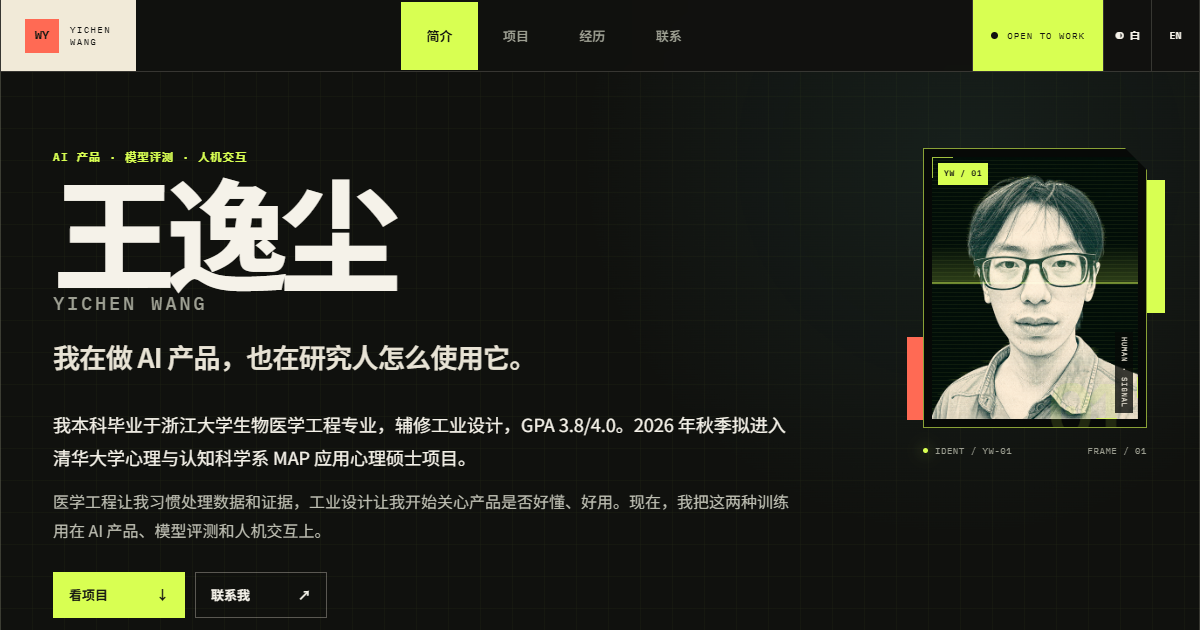
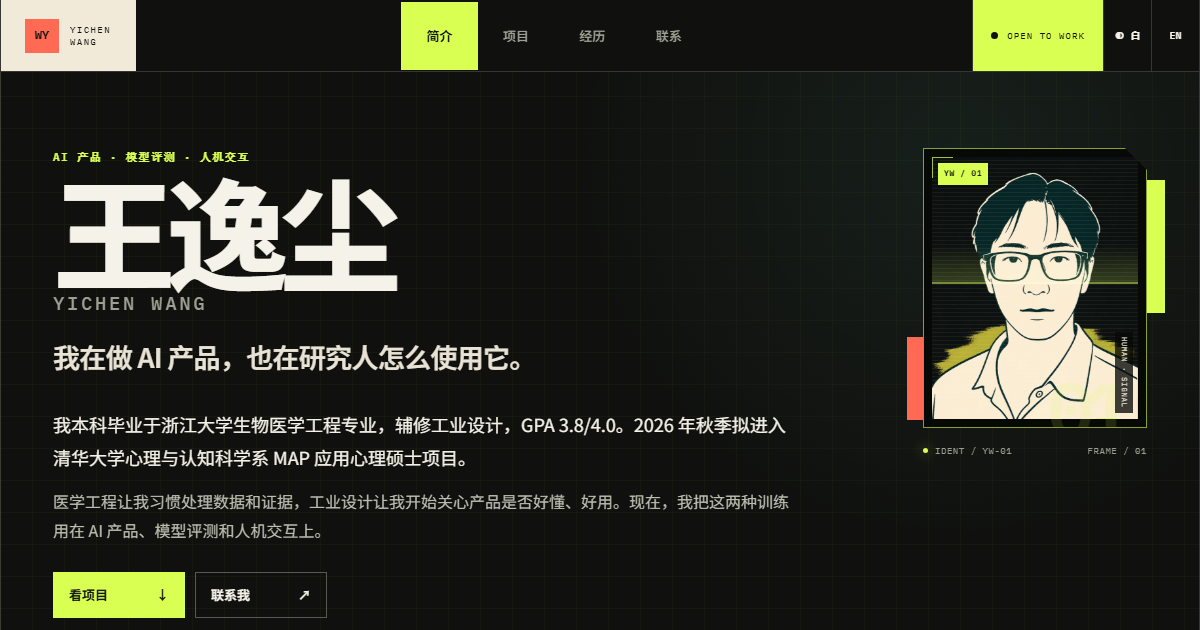
refine profile portrait and contact radar

Changed region(s): [[0.7708, 0.2714, 0.9558, 0.6635], [0.0617, 0.2413, 0.2158, 0.2714]]

diff --git a/index.html b/index.html
@@ -92,7 +92,7 @@
 
         <figure class="portrait-card reveal">
           <div class="portrait-stage">
-            <img class="portrait-image" src="./assets/profile-dotmatrix.png" width="600" height="600" alt="王逸尘的点阵头像" data-i18n-alt="profile.alt">
+            <img class="portrait-image" src="./assets/profile-illustrated.webp" width="800" height="800" alt="王逸尘的简笔插画头像" data-i18n-alt="profile.alt">
             <div class="portrait-raster" aria-hidden="true"></div>
             <div class="portrait-scanner" aria-hidden="true"></div>
             <span class="portrait-tag mono" aria-hidden="true">YW / 01</span>
@@ -143,7 +143,7 @@
           </article>
         </div>
 
-        <p class="availability reveal"><span data-i18n="availability.label">求职状态</span> <b data-i18n="availability.detail">2026.08.11 起 · 每周 5 天 · 可实习 6 个月以上 · 上海 / 北京 / 深圳 / 杭州</b></p>
+        <p class="availability reveal"><span data-i18n="availability.label">求职状态</span> <b data-i18n="availability.detail">2026.08.11 起 · 每周 5 天 · 可实习 6 个月以上 · 北京优先 / 杭州可考虑</b></p>
       </section>
 
       <section id="work" class="work section-frame" aria-labelledby="work-title">
@@ -274,7 +274,7 @@
         <header class="section-intro reveal">
           <p class="section-number mono">02 / EXPERIENCE</p>
           <h2 id="experience-title" data-i18n="experience.title">教育与经历</h2>
-          <p class="experience-lead" data-i18n="experience.lead">我的路径横跨医学工程、工业设计和 AI 产品。这里先列教育背景，再列几段真正影响我工作方法的实践。</p>
+          <p class="experience-lead" data-i18n="experience.lead">关键词：医学数据与证据、用户研究与交互设计、AI 产品与模型评测。技术栈：Python、JavaScript、SQL、Flask、SQLite、RAG、自动化测试。</p>
         </header>
 
         <div class="experience-grid">
@@ -326,6 +326,35 @@
       </section>
 
       <section id="contact" class="contact section-frame" aria-labelledby="contact-title">
+        <div class="contact-radar" aria-hidden="true">
+          <svg viewBox="0 0 600 600" focusable="false">
+            <g class="contact-radar-grid">
+              <polygon points="300,40 547,220 453,510 147,510 53,220"></polygon>
+              <polygon points="300,105 485,240 415,458 185,458 115,240"></polygon>
+              <polygon points="300,170 424,260 376,405 224,405 176,260"></polygon>
+              <polygon points="300,235 362,280 338,353 262,353 238,280"></polygon>
+              <path d="M300 300V40M300 300L547 220M300 300L453 510M300 300L147 510M300 300L53 220"></path>
+            </g>
+            <polygon class="contact-radar-profile" points="300,71 535,224 419,464 175,472 122,242"></polygon>
+            <g class="contact-radar-nodes">
+              <circle cx="300" cy="71" r="6"></circle>
+              <circle cx="535" cy="224" r="6"></circle>
+              <circle cx="419" cy="464" r="6"></circle>
+              <circle cx="175" cy="472" r="6"></circle>
+              <circle cx="122" cy="242" r="6"></circle>
+              <circle cx="300" cy="300" r="8"></circle>
+            </g>
+            <line class="contact-radar-sweep" x1="300" y1="300" x2="300" y2="34"></line>
+            <g class="contact-radar-labels">
+              <text x="300" y="20" text-anchor="middle">EVIDENCE</text>
+              <text x="558" y="216">PRODUCT</text>
+              <text x="460" y="544">DESIGN</text>
+              <text x="140" y="544" text-anchor="end">SYSTEMS</text>
+              <text x="42" y="216" text-anchor="end">RESEARCH</text>
+            </g>
+          </svg>
+          <span class="contact-radar-caption mono">WORKING PROFILE / 05 AXES</span>
+        </div>
         <div class="contact-copy reveal">
           <p class="section-number mono">03 / CONTACT</p>
           <h2 id="contact-title" data-i18n="contact.title">联系我</h2>

diff --git a/app.js b/app.js
@@ -14,7 +14,7 @@ const translations = {
     "aria.modelRadar": "打开 Model Radar 在线站点",
     "aria.lightloom": "打开 Lightloom 公开项目页",
     "aria.ragFlow": "智能营养师功能流程示意",
-    "profile.alt": "王逸尘的点阵头像",
+    "profile.alt": "王逸尘的简笔插画头像",
     "nav.about": "简介",
     "nav.work": "项目",
     "nav.experience": "经历",
@@ -37,7 +37,7 @@ const translations = {
     "school.zjuEmblemAlt": "浙江大学校徽",
     "school.tsinghuaEmblemAlt": "清华大学校徽",
     "availability.label": "求职状态",
-    "availability.detail": "2026.08.11 起 · 每周 5 天 · 可实习 6 个月以上 · 上海 / 北京 / 深圳 / 杭州",
+    "availability.detail": "2026.08.11 起 · 每周 5 天 · 可实习 6 个月以上 · 北京优先 / 杭州可考虑",
     "work.title": "我做过的几个项目。",
     "project.radarAlt": "Model Radar 首页，展示世界模型雷达、更新时间、指标和模型排名",
     "project.radarCaption": "Model Radar 首页 · 2026",
@@ -86,7 +86,7 @@ const translations = {
     "side.researchTitle": "独立研究者工坊",
     "side.researchDetail": "整理研究过程的本地工作台 ↗",
     "experience.title": "教育与经历",
-    "experience.lead": "我的路径横跨医学工程、工业设计和 AI 产品。这里先列教育背景，再列几段真正影响我工作方法的实践。",
+    "experience.lead": "关键词：医学数据与证据、用户研究与交互设计、AI 产品与模型评测。技术栈：Python、JavaScript、SQL、Flask、SQLite、RAG、自动化测试。",
     "experience.education": "教育 / EDUCATION",
     "experience.practice": "实践 / PRACTICE",
     "experience.zjuDetail": "生物医学工程本科 · 工业设计辅修 · GPA 3.8/4.0",
@@ -121,7 +121,7 @@ const translations = {
     "aria.modelRadar": "Open the Model Radar website",
     "aria.lightloom": "Open the public Lightloom project",
     "aria.ragFlow": "Smart nutrition assistant workflow",
-    "profile.alt": "Dot-matrix portrait of Yichen Wang",
+    "profile.alt": "Minimal line-illustration portrait of Yichen Wang",
     "nav.about": "About",
     "nav.work": "Work",
     "nav.experience": "Experience",
@@ -144,7 +144,7 @@ const translations = {
     "school.zjuEmblemAlt": "Zhejiang University emblem",
     "school.tsinghuaEmblemAlt": "Tsinghua University emblem",
     "availability.label": "Availability",
-    "availability.detail": "From Aug 11, 2026 · 5 days/week · 6+ months · Shanghai / Beijing / Shenzhen / Hangzhou",
+    "availability.detail": "From Aug 11, 2026 · 5 days/week · 6+ months · Beijing preferred / Hangzhou considered",
     "work.title": "A few things I've built.",
     "project.radarAlt": "Model Radar homepage showing model updates, dates, metrics, and rankings",
     "project.radarCaption": "Model Radar homepage · 2026",
@@ -193,7 +193,7 @@ const translations = {
     "side.researchTitle": "Independent Researcher Workshop",
     "side.researchDetail": "A local workspace for research in progress ↗",
     "experience.title": "Education & experience",
-    "experience.lead": "I studied biomedical engineering and industrial design before moving into AI products. These are the experiences that shaped how I work.",
+    "experience.lead": "Focus: medical data and evidence, user research and interaction design, AI products and model evaluation. Stack: Python, JavaScript, SQL, Flask, SQLite, RAG, and automated testing.",
     "experience.education": "EDUCATION",
     "experience.practice": "PRACTICE",
     "experience.zjuDetail": "BEng in Biomedical Engineering · Industrial Design minor · GPA 3.8/4.0",

diff --git a/styles.css b/styles.css
@@ -1405,6 +1405,9 @@ html[lang="en"] .experience .section-intro h2 {
 }
 
 .contact {
+  position: relative;
+  isolation: isolate;
+  overflow: hidden;
   padding-top: 110px;
   padding-bottom: 110px;
   color: var(--signal-ink);
@@ -1416,7 +1419,94 @@ html[lang="en"] .experience .section-intro h2 {
 }
 
 .contact-copy {
+  position: relative;
+  z-index: 2;
   max-width: 800px;
+}
+
+.contact-radar {
+  position: absolute;
+  z-index: 0;
+  top: 50%;
+  right: -8vw;
+  width: clamp(620px, 52vw, 1180px);
+  aspect-ratio: 1;
+  color: var(--signal-ink);
+  opacity: 0.14;
+  pointer-events: none;
+  transform: translateY(-50%) rotate(-4deg);
+}
+
+.contact-radar svg {
+  display: block;
+  width: 100%;
+  height: 100%;
+  overflow: visible;
+}
+
+.contact-radar-grid polygon,
+.contact-radar-grid path {
+  fill: none;
+  stroke: currentColor;
+  stroke-width: 1.2;
+  vector-effect: non-scaling-stroke;
+}
+
+.contact-radar-grid polygon:nth-child(2),
+.contact-radar-grid polygon:nth-child(4) {
+  stroke-dasharray: 5 8;
+}
+
+.contact-radar-profile {
+  fill: rgba(32, 168, 255, 0.2);
+  stroke: currentColor;
+  stroke-width: 2;
+  transform-box: fill-box;
+  transform-origin: center;
+  vector-effect: non-scaling-stroke;
+  animation: contact-radar-breathe 8s cubic-bezier(0.45, 0, 0.55, 1) infinite;
+}
+
+.contact-radar-nodes circle {
+  fill: var(--block-acid);
+  stroke: currentColor;
+  stroke-width: 1.5;
+  vector-effect: non-scaling-stroke;
+}
+
+.contact-radar-sweep {
+  stroke: currentColor;
+  stroke-width: 2;
+  stroke-dasharray: 13 8;
+  transform-box: view-box;
+  transform-origin: 300px 300px;
+  vector-effect: non-scaling-stroke;
+  animation: contact-radar-sweep 18s linear infinite;
+}
+
+.contact-radar-labels {
+  fill: currentColor;
+  font-family: var(--mono);
+  font-size: 12px;
+  font-weight: 600;
+  letter-spacing: 0.12em;
+}
+
+.contact-radar-caption {
+  position: absolute;
+  right: 12%;
+  bottom: 4%;
+  font-size: 10px;
+  letter-spacing: 0.13em;
+}
+
+@keyframes contact-radar-sweep {
+  to { transform: rotate(360deg); }
+}
+
+@keyframes contact-radar-breathe {
+  0%, 100% { opacity: 0.62; transform: scale(0.985); }
+  50% { opacity: 1; transform: scale(1.015); }
 }
 
 .contact .section-number {
@@ -1762,6 +1852,12 @@ html[lang="en"] .experience .section-intro h2 {
     grid-template-columns: 135px minmax(190px, 0.6fr) minmax(300px, 1fr);
     gap: 0;
   }
+
+  .contact-radar {
+    right: -300px;
+    width: 620px;
+    opacity: 0.1;
+  }
 }
 
 @media (max-width: 780px) {
@@ -1851,6 +1947,10 @@ html[lang="en"] .experience .section-intro h2 {
 
   .side-links {
     grid-template-columns: repeat(3, minmax(0, 1fr));
+  }
+
+  .contact-radar {
+    display: none;
   }
 }
 
@@ -2301,7 +2401,9 @@ html[lang="en"] .experience .section-intro h2 {
   .portrait-card::before,
   .portrait-card::after,
   .portrait-stage,
-  .portrait-image {
+  .portrait-image,
+  .contact-radar-profile,
+  .contact-radar-sweep {
     animation: none !important;
     transform: none !important;
   }
@@ -2343,7 +2445,8 @@ html[lang="en"] .experience .section-intro h2 {
   .portrait-tag,
   .portrait-axis,
   .portrait-code,
-  .portrait-card figcaption {
+  .portrait-card figcaption,
+  .contact-radar {
     display: none !important;
   }
 

diff --git a/DEVELOPMENT.md b/DEVELOPMENT.md
@@ -7,7 +7,7 @@
 - `index.html`：语义结构、公开履历与项目内容。
 - `styles.css`：Model Radar 衍生视觉、响应式布局、动效与打印样式。
 - `app.js`：中英文本、系统语言识别、明暗主题状态、滚动显现、导航状态和打印入口。
-- `assets/`：点阵头像、两校官网校徽与经过公开边界检查的项目截图。
+- `assets/`：简笔插画头像、两校官网校徽与经过公开边界检查的项目截图。
 - `tests/site.test.mjs`：内容、锚点、链接与无障碍防线。
 - `scripts/dev-server.mjs`：本地静态服务器。
 - `scripts/build-site.mjs`：生成只含公开网页资源的 `dist/`。
@@ -50,8 +50,9 @@ npm run build
 - 色块承担页面结构：首屏教育信息使用纸色、酸绿和 DPSK 蓝三联板；项目使用整块酸绿、DPSK 蓝、珊瑚红和暖金说明面板；联系区使用纸色收束。色块之间用硬边与网格连接。
 - 章节标题使用 Model Radar 式 masthead：紧排巨型标题与小号等宽读数并置。项目说明和画面直接拼接，避免回到常规卡片与浮层。
 - 动效共用“落位—呼吸—扫描”的低幅度节奏；人物漂浮不超过 4px，图像缩放不超过 1.018，色块位移不超过 7px。
-- 点阵头像来自站点所有者提供的本人照片，保持小尺寸，仅作为首屏识别符。
-- 人物使用编辑式识别卡呈现：矩形裁切、套准线、点阵纹理和一条窄扫描带。完整面部始终可见，避免圆形雷达与大块明暗分区。
+- 简笔插画头像以站点所有者提供的本人照片为身份参考，使用均匀光线与中长焦比例，保持小尺寸，仅作为首屏识别符。
+- 人物使用编辑式识别卡呈现：矩形裁切、套准线、低细节色面和一条窄扫描带。完整面部始终可见，避免浓重阴影和过多真实纹理。
+- 联系区使用低对比五轴工作画像雷达作为越出边框的背景；轴向只表达工作主题，不呈现虚构的精确能力分数。
 - 深色模式突出酸绿识别条、设备铭牌与硬边偏移阴影；浅色模式使用纸张、深墨和橄榄套印，避免发光雷达效果。
 - 首次访问固定使用深色模式，并根据浏览器语言选择中英文；手动主题和语言写入 `localStorage`，后续访问继续沿用。
 - 中文是 HTML 内的无脚本回退。每个 `data-i18n`、`data-i18n-aria` 和 `data-i18n-alt` 键必须同时提供中英文内容。
@@ -68,8 +69,9 @@ npm run build
 - Use color blocks as page structure: a paper, acid, and DPSK blue education strip; full acid, DPSK blue, coral, and warm amber project panels; and a paper contact close.
 - Build section mastheads from oversized compressed titles, compact mono readouts, hard borders, and directly joined media/copy panels.
 - Keep motion on one low-amplitude settle, breathe, and scan rhythm; portrait drift stays within 4px, image scale within 1.018, and color-block travel within 7px.
-- Use the owner-approved likeness inside a compact editorial identity card with registration marks and raster texture.
+- Use the owner-approved likeness as the reference for a compact, low-detail illustrated identity card with registration marks and raster texture.
 - Keep the full face visible and move only a narrow horizontal scanning band. Stop the band under reduced motion and remove overlays in print.
+- Keep the contact radar low-contrast and decorative, stop its sweep under reduced motion, and remove it from print.
 - Default to dark mode, detect the browser language, and persist explicit language/theme choices in `localStorage`.
 - Keep Chinese as the no-script HTML fallback and provide both languages for every translation hook.
 - Preserve the official colors and proportions of the ZJU and Tsinghua emblems; only trim blank canvas and scale proportionally.

diff --git a/README.md b/README.md
@@ -19,9 +19,9 @@ This is Yichen Wang's résumé and portfolio site, focused on AI product work, m
 
 ## 视觉方向 / Visual Direction
 
-网站直接转译 Model Radar 的控制室语言：巨型紧排标题、连续信号色块、硬边网格和高密度读数。首屏是一块个人身份仪表盘，教育与 GPA 组成三联信号板；项目以“产品画面 + 整块项目说明”交替排列，酸绿、DPSK 蓝、珊瑚红和暖金形成连续节奏。页面框架在大屏上延展到接近视口边缘，项目画面与信号面板随屏幕同步放大，正文保持适合阅读的行长。人物仍以小尺寸编辑式识别卡呈现，完整面部始终可见。
+网站直接转译 Model Radar 的控制室语言：巨型紧排标题、连续信号色块、硬边网格和高密度读数。首屏是一块个人身份仪表盘，教育与 GPA 组成三联信号板；项目以“产品画面 + 整块项目说明”交替排列，酸绿、DPSK 蓝、珊瑚红和暖金形成连续节奏。页面框架在大屏上延展到接近视口边缘，项目画面与信号面板随屏幕同步放大，正文保持适合阅读的行长。人物使用低细节简笔插画识别卡，联系区以五轴工作画像雷达作越界背景。
 
-The site directly translates Model Radar's control-room language through oversized compressed headlines, continuous signal blocks, hard grid lines, and compact readouts. The frame expands toward the viewport edges on large displays, while project media and signal panels scale up without stretching body copy into long lines. The compact editorial portrait card keeps the face fully visible within the denser system.
+The site directly translates Model Radar's control-room language through oversized compressed headlines, continuous signal blocks, hard grid lines, and compact readouts. The frame expands toward the viewport edges on large displays, while project media and signal panels scale up without stretching body copy into long lines. A low-detail line portrait keeps the identity card calm, and a five-axis working-profile radar extends beyond the contact frame.
 
 ## 本地预览 / Local Preview
 
